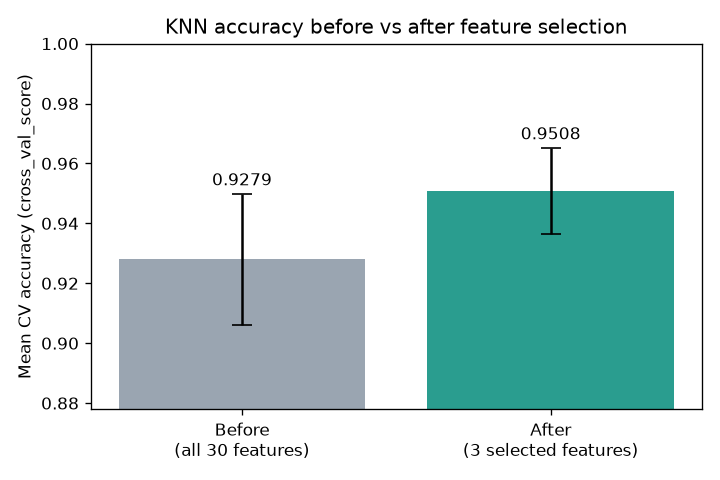
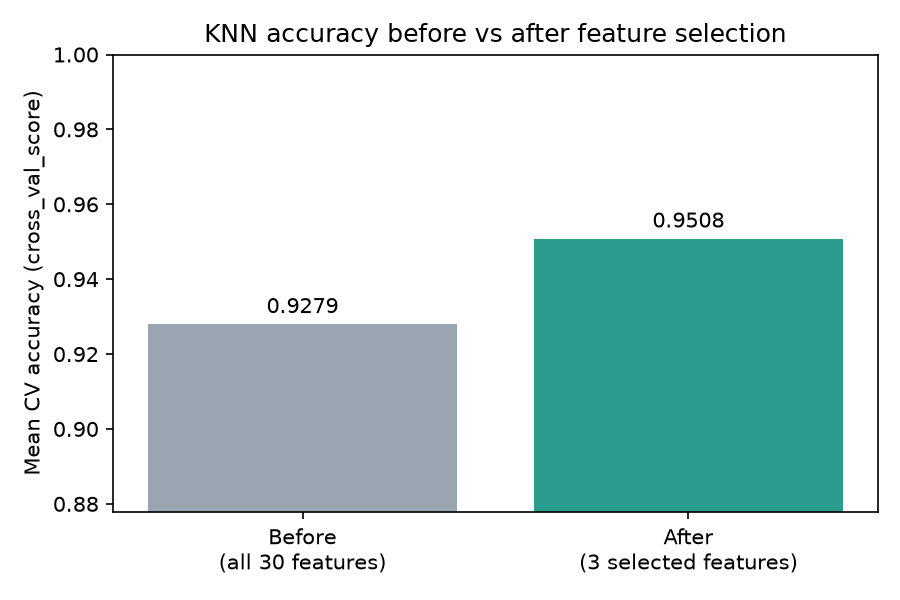
Drop error bars from the two comparison charts
Both bar charts drew the per-fold standard deviation as a yerr whisker,
which put a vertical line through the value label above each bar. The
charts now show the number alone.

The spread those whiskers carried is real information, so it moves into
the prose rather than disappearing: the feature-selection page now gives
0.0218 before and 0.0143 after, and the tuning page states 0.0179 and
0.0162 against the 0.0088 gap between the bars — still making the point
that the difference is within fold-to-fold noise, just without a chart
element to point at. Both pages had sentences describing the whiskers
that would otherwise have referred to something no longer drawn.

Charts regenerated; every number is unchanged.

diff --git a/docs/feature-selection.md b/docs/feature-selection.md
@@ -66,8 +66,7 @@ Before (all 30 features)   : cross_val_score = 0.9279
 After  (3 selected features) : cross_val_score = 0.9508
 ```
 
-The comparison as a bar chart, with the per-fold standard deviation as
-error bars (use the full score arrays, not just the means):
+The comparison as a bar chart, with each bar labelled by its score:
 
 ```python
 import matplotlib.pyplot as plt
@@ -78,11 +77,9 @@ scores_selected = cross_val_score(model, X[:, selected], y, cv=5)
 labels = [f"Before\n(all {X.shape[1]} features)",
           f"After\n({len(selected)} selected features)"]
 means = [scores_all.mean(), scores_selected.mean()]
-errors = [scores_all.std(), scores_selected.std()]
 
 fig, ax = plt.subplots(figsize=(6, 4))
-bars = ax.bar(labels, means, yerr=errors, capsize=6,
-              color=["#9aa5b1", "#2a9d8f"])
+bars = ax.bar(labels, means, color=["#9aa5b1", "#2a9d8f"])
 ax.set_ylabel("Mean CV accuracy (cross_val_score)")
 ax.set_ylim(min(means) - 0.05, 1.0)
 ax.bar_label(bars, fmt="%.4f", padding=3)
@@ -96,7 +93,10 @@ The result:
 ![Bar chart: accuracy before vs after feature selection](img/feature_selection_comparison.png)
 
 The selected subset wins on both axes: higher accuracy (+2.3 points)
-with 10x fewer features. Two things make this a fair comparison:
+with 10x fewer features. The spread across the five folds is 0.0218
+before and 0.0143 after, so the gain is close to one fold-standard-
+deviation — real, but worth reporting alongside that spread rather than
+on its own. Two things make this a fair comparison:
 
 - **Same estimator, same folds**: both scores come from an identical
   5-fold cross-validation of an identical model — the only difference

diff --git a/docs/gridsearch-comparison.md b/docs/gridsearch-comparison.md
@@ -148,11 +148,9 @@ labels = ["Default\n(C=1.0, gamma='scale')",
           f"Best\n(C={grid.best_params_['svc__C']}, "
           f"gamma={grid.best_params_['svc__gamma']})"]
 scores = [default_row["mean_test_score"], best_row["mean_test_score"]]
-errors = [default_row["std_test_score"], best_row["std_test_score"]]
 
 fig, ax = plt.subplots(figsize=(6, 4))
-bars = ax.bar(labels, scores, yerr=errors, capsize=6,
-              color=["#9aa5b1", "#2a9d8f"])
+bars = ax.bar(labels, scores, color=["#9aa5b1", "#2a9d8f"])
 ax.set_ylabel("Mean CV accuracy (mean_test_score)")
 ax.set_ylim(min(scores) - 0.03, 1.0)
 ax.bar_label(bars, fmt="%.4f", padding=3)
@@ -167,9 +165,11 @@ The result:
 
 Tuning moved the cross-validated accuracy from **0.9714** to
 **0.9802** — a real but modest gain, which is itself a useful lesson.
-The error bars (`std_test_score`) are about 0.016, larger than the gap
-between the bars, so some of that difference could be fold-to-fold
-noise rather than a genuinely better model.
+Read it next to `std_test_score` from the table above: the spread across
+folds is 0.0179 and 0.0162, both **larger than the 0.0088 gap between
+the bars**. Some of that difference could be fold-to-fold noise rather
+than a genuinely better model, which is why the chart alone never
+settles the question.
 
 !!! note "About the truncated y-axis"
     The chart starts its y-axis near the scores to make the difference
